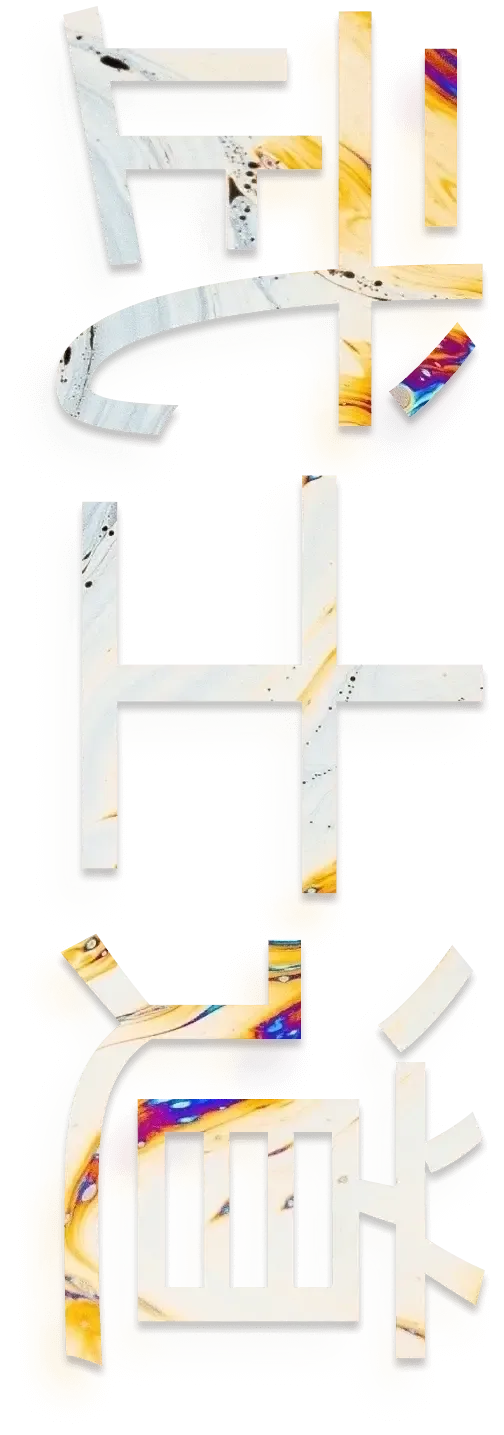
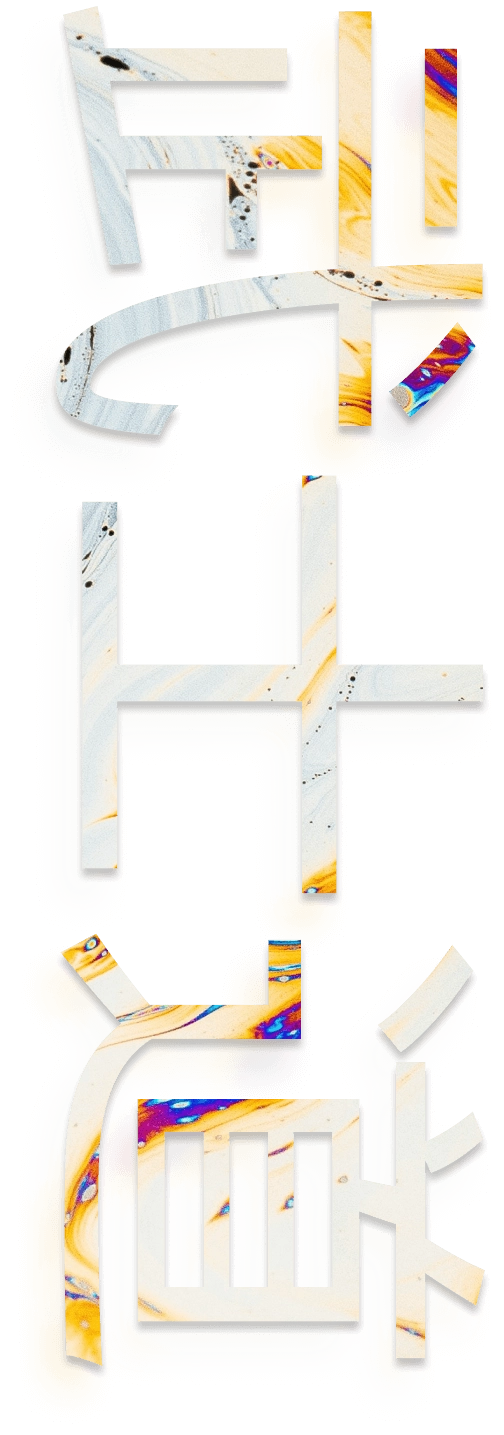
Updates

diff --git a/index.html b/index.html
@@ -717,9 +717,15 @@
     <div class=effect></div>
     <div class=bg>
       <picture>
-        <source srcset=img/bg.min.webp type=image/webp>
-        <source srcset=img/bg.min.png type=image/png>
-        <img src=img/bg.min.png alt=Фон>
+        <source srcset=img/bg__mob.min.webp type=image/webp media="(max-width: 575.98px)">
+        <source srcset=img/bg__small.min.webp type=image/webp media="(max-width: 991.98px)">
+        <source srcset=img/bg__medium.min.webp type=image/webp media="(max-width: 1399.98px)">
+        <source srcset=img/bg__large.min.webp type=image/webp media="(min-width: 2500px)">
+        <source srcset=img/bg__mob.min.png type=image/png media="(max-width: 575.98px)">
+        <source srcset=img/bg__small.min.png type=image/png media="(max-width: 991.98px)">
+        <source srcset=img/bg__medium.min.png type=image/png media="(max-width: 1399.98px)">
+        <source srcset=img/bg__large.min.png type=image/png media="(min-width: 2500px)">
+        <img src=img/bg__medium.min.png alt=Фон>
       </picture>
     </div>
   
